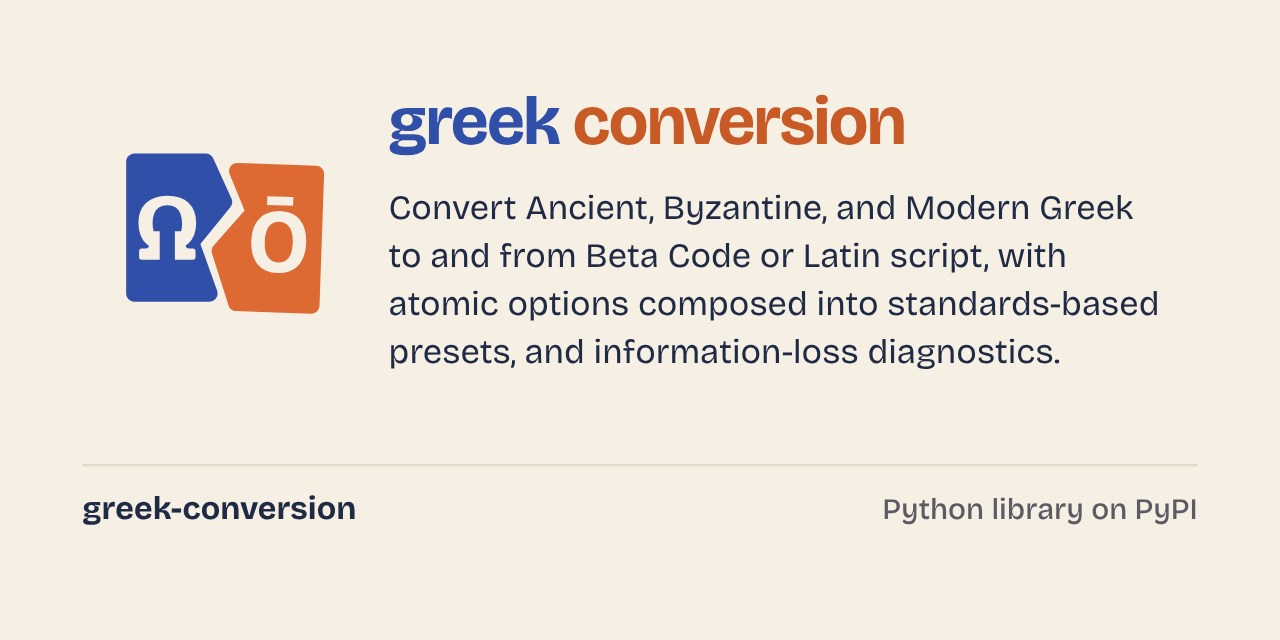
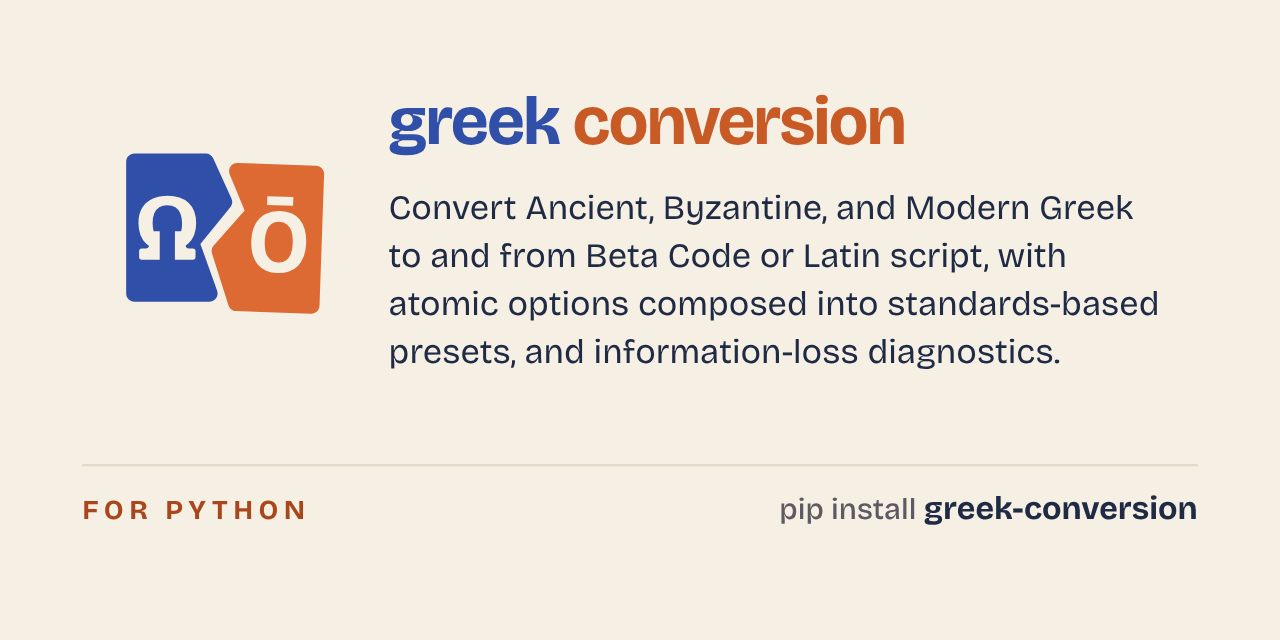
Python social card: "For Python" and the install command in its foot
The foot says what the Python logo says, "For Python", on the left, in
its tracked capitals and darker orange, and the command that installs
the package on the right, `pip install greek-conversion`, the name in
the ink. "Python library on PyPI" said less: the package is a binding,
and PyPI is its only registry. The card's body stays the TypeScript
card's.

Claude-Session: https://claude.ai/code/session_01HZH32SMSMKL8mChWyRh9H7

Changed region(s): [[0.5938, 0.7812, 0.9375, 0.8125], [0.0625, 0.7812, 0.2812, 0.8125]]

diff --git a/scripts/check_metadata.ts b/scripts/check_metadata.ts
@@ -121,8 +121,9 @@ const FOOT = "@humanities/greek-conversion, TypeScript library on npm and JSR.";
 const card = "greek conversion: " + CARD[0].toLowerCase() + CARD.slice(1) +
   " " + FOOT;
 /** The foot of `docs/assets/greek-conversion-social-python-clair.png`, the
- * Python package's card, which has the same description. */
-const PYTHON_FOOT = "greek-conversion, Python library on PyPI.";
+ * Python package's card, which has the same description: the logo's "For
+ * Python", and the command that installs it. */
+const PYTHON_FOOT = "For Python: pip install greek-conversion.";
 const playground = await read("web/playground/index.html");
 expect(
   "the text alternative of the site's social card",

diff --git a/web/docs/src/routeData.ts b/web/docs/src/routeData.ts
@@ -11,7 +11,7 @@ import { otherVersionHref, VERSIONS } from "./versions.ts";
 const PYTHON_CARD = {
   image: "social-python.png",
   alt:
-    "greek conversion: convert Ancient, Byzantine, and Modern Greek to and from Beta Code or Latin script, with atomic options composed into standards-based presets, and information-loss diagnostics. greek-conversion, Python library on PyPI.",
+    "greek conversion: convert Ancient, Byzantine, and Modern Greek to and from Beta Code or Latin script, with atomic options composed into standards-based presets, and information-loss diagnostics. For Python: pip install greek-conversion.",
 };
 
 export const onRequest = defineRouteMiddleware((context) => {

diff --git a/CHANGELOG.md b/CHANGELOG.md
@@ -23,21 +23,20 @@ change.
   Code or Latin script, with atomic options composed into standards-based
   presets, and information-loss diagnostics." It takes four lines, still
   clear of the bands that GitHub and the networks crop. The pages of the
-  Python documentation give a card of their own, with the same text and the
-  Python package in its foot: `greek-conversion`, "Python library on PyPI".
-  `scripts/check_metadata.ts` checks both text alternatives against the
-  cards.
-- **Node.js 22.13.** The npm package asks for Node.js 22.13 or later in its
-  `engines` field, instead of 24. The test suite runs there too, and the
-  library gives the same output as under Node.js 24, also under the releases
-  of Node.js 22 that ship Unicode 16 instead of 17. Node.js 22 is maintained
-  until April 2027.
-- **Documentation.** The migration guide opens with the path from `0.14.x`,
+  Python documentation give a card of their own, with the same text and a
+  foot of its own: "For Python", as the Python logo has it, and `pip install
+  greek-conversion`. `scripts/check_metadata.ts` checks both text
+  alternatives against the cards. - **Node.js 22.13.** The npm package asks
+  for Node.js 22.13 or later in its `engines` field, instead of 24. The test
+  suite runs there too, and the library gives the same output as under
+  Node.js 24, also under the releases of Node.js 22 that ship Unicode 16
+  instead of 17. Node.js 22 is maintained until April 2027. -
+  **Documentation.** The migration guide opens with the path from `0.14.x`,
   before the notes on each prerelease: the package's new name, and the
-  counterparts of the helpers `removeDiacritics()`,
-  `removeGreekVariants()`, and `applyGreekVariants()`, with the cases where
-  they differ. The README and the getting-started page point the users of the
-  unscoped `greek-conversion` package, the `0.14.x` series, to it.
+  counterparts of the helpers `removeDiacritics()`, `removeGreekVariants()`,
+  and `applyGreekVariants()`, with the cases where they differ. The README
+  and the getting-started page point the users of the unscoped
+  `greek-conversion` package, the `0.14.x` series, to it.
 
 ## [1.0.0-rc.15] - 2026-11-27
 
